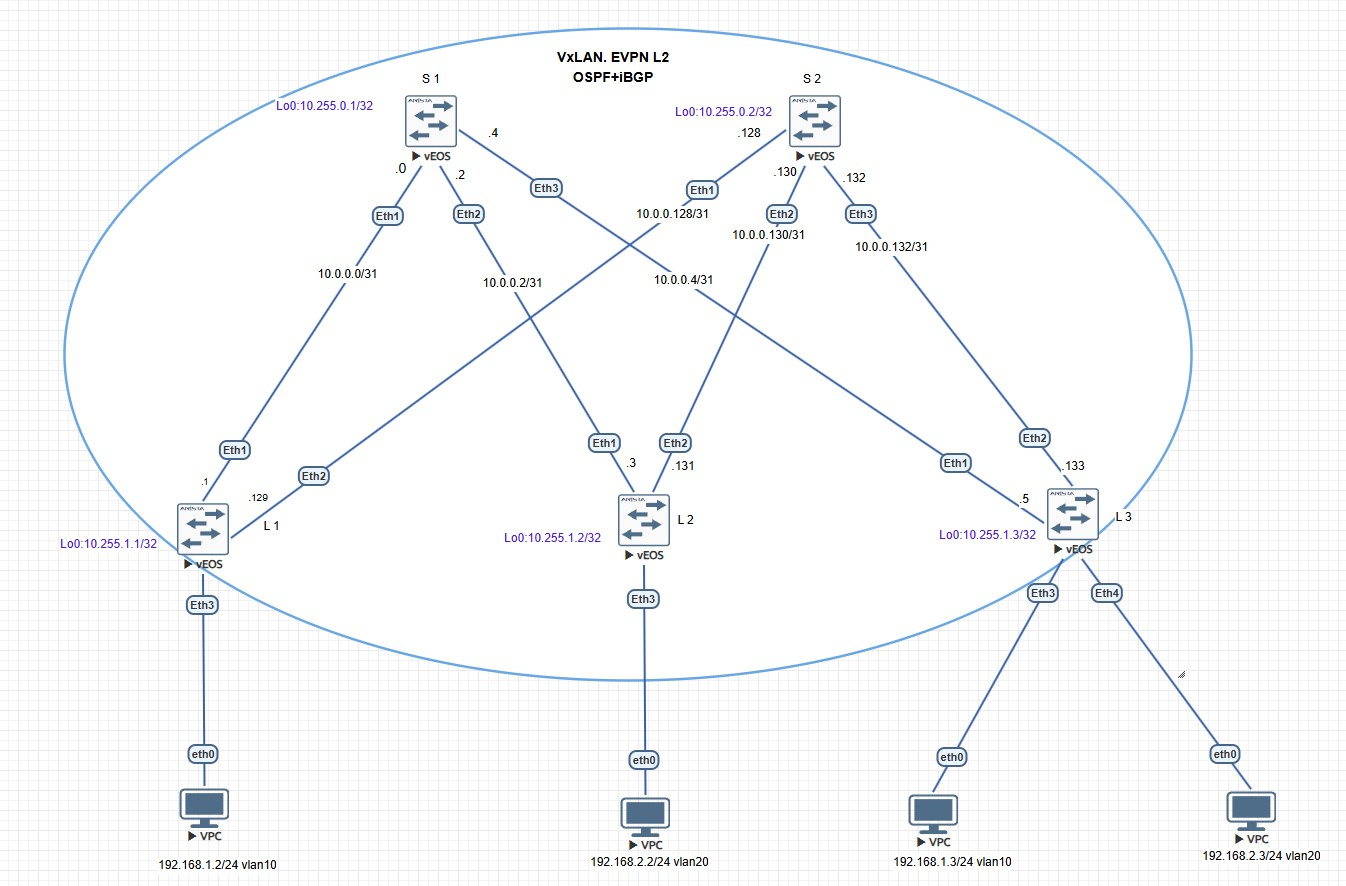
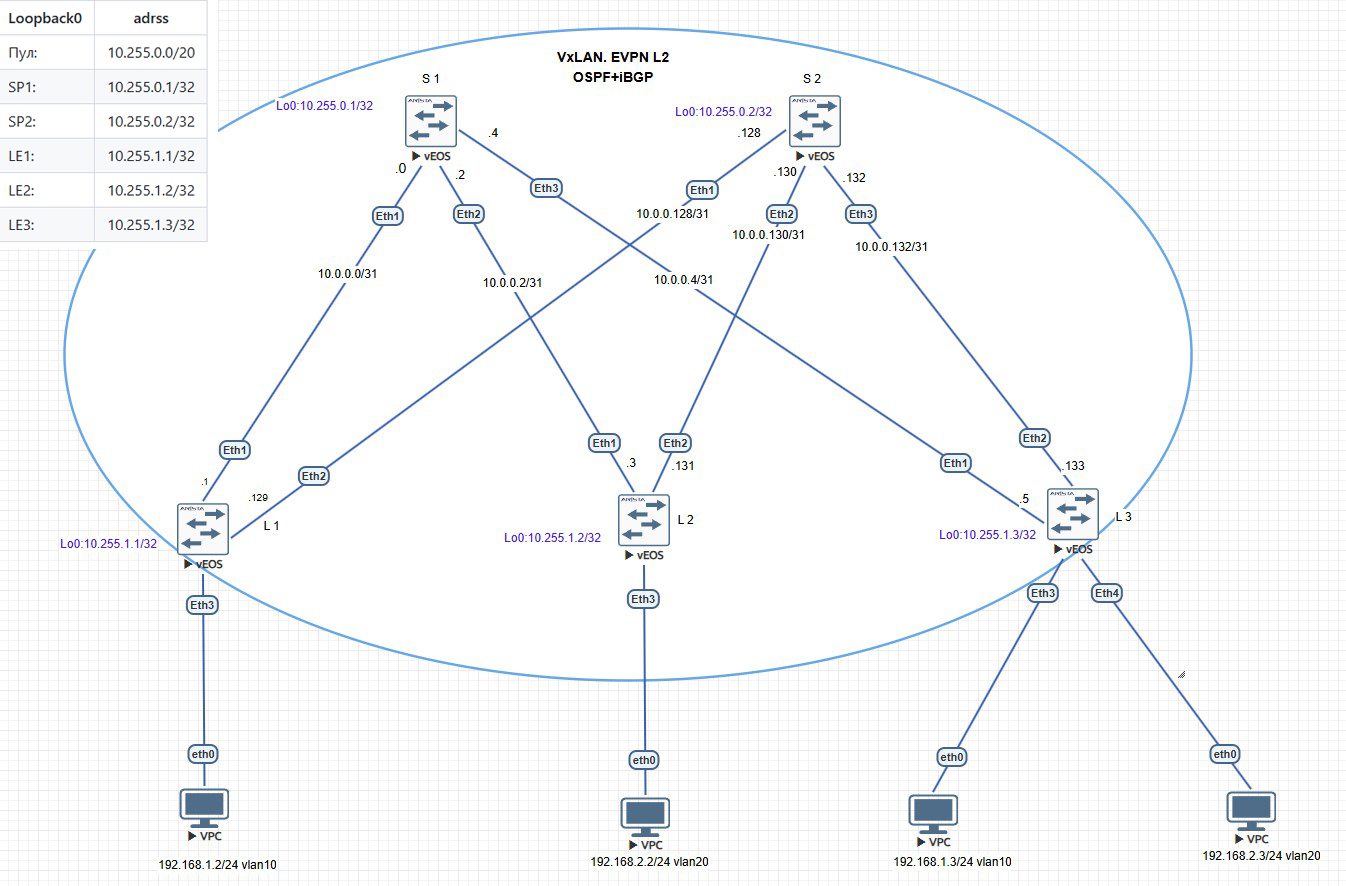
newtopology

Changed region(s): [[0.0624, 0.0, 0.156, 0.2743], [0.0, 0.0, 0.0624, 0.1828], [0.0, 0.2133, 0.0312, 0.2743]]

diff --git a/labs/lab05/README.md b/labs/lab05/README.md
@@ -93,15 +93,6 @@ AS Path Attributes: Or-ID - Originator ID, C-LST - Cluster List, LL Nexthop - Li
 ```
 
 
-| Loopback0 | adrss | 
------- | ------ |
-Пул: | 10.255.0.0/20 |
-SP1: | 10.255.0.1/32 | 
-SP2: | 10.255.0.2/32 |
-LE1: | 10.255.1.1/32 |
-LE2: |10.255.1.2/32 |
-LE3: |10.255.1.3/32 |
-
 --------------------------
 
 | P2P-линки | adrss | линки |
